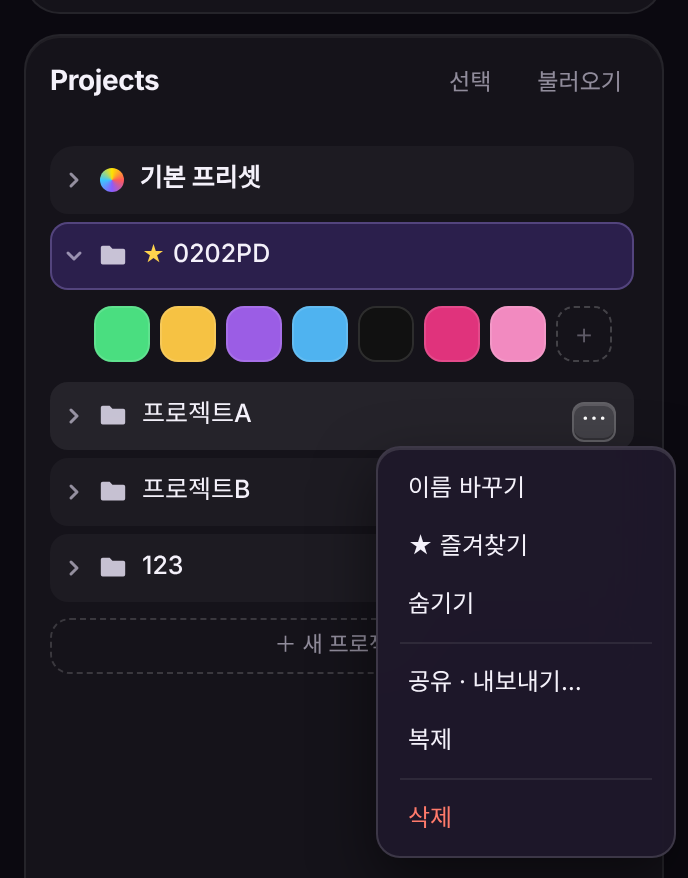
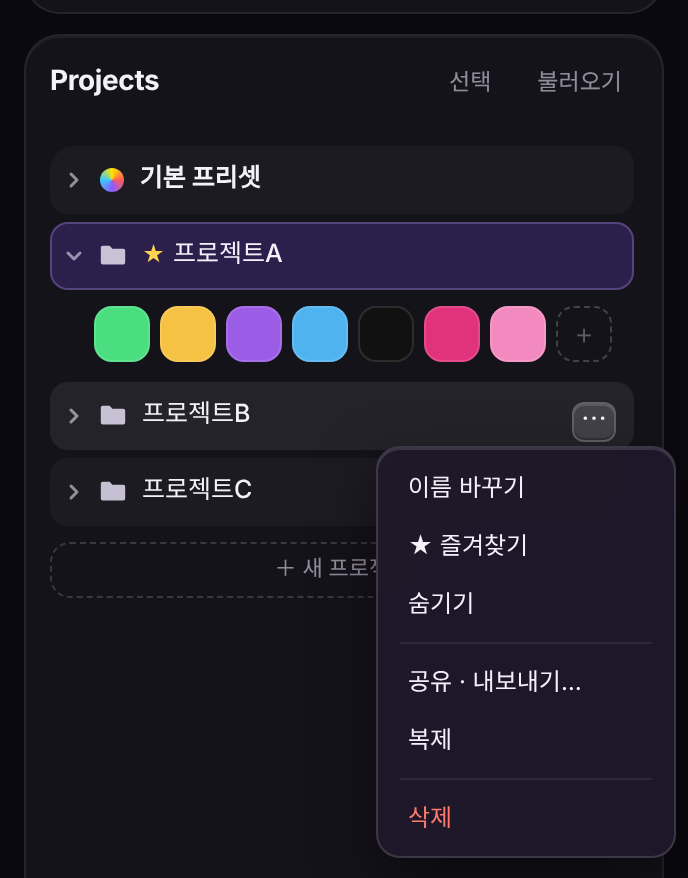
소개 페이지: 사용 방법 섹션, 기능 4 예시를 프로젝트 A·B·C로
Claude-Session: https://claude.ai/code/session_01EN3DvmfasgiLr1rD7UWmUP

diff --git a/index.html b/index.html
@@ -61,6 +61,9 @@
   .feat p { color: var(--sub); font-size: 14.5px; }
   .list { display: grid; grid-template-columns: repeat(3, 1fr); gap: 14px; }
   .list .feat h3 { font-size: 15.5px; }
+  .list ol.how { margin: 8px 0 0 18px; color: var(--sub); font-size: 13.5px; display: grid; gap: 5px; }
+  .list ol.how b { color: var(--text); font-weight: 700; }
+  .list ol.how li::before { content: none; }
   .list ul { list-style: none; color: var(--sub); font-size: 13.5px; display: grid; gap: 5px; margin-top: 6px; }
   .list li::before { content: "·"; color: var(--p2); font-weight: 900; margin-right: 6px; }
   .steps { display: grid; grid-template-columns: 1fr 1fr; gap: 14px; }
@@ -88,7 +91,7 @@
 <div class="wrap">
   <nav>
     <div class="brand"><span class="dot"></span>0202<b>Swatch</b></div>
-    <div class="links"><a href="#features">기능</a><a href="#install">설치</a><a href="#help">문제 해결</a></div>
+    <div class="links"><a href="#features">기능</a><a href="#howto">사용 방법</a><a href="#install">설치</a><a href="#help">문제 해결</a></div>
   </nav>
 
   <div class="hero">
@@ -124,23 +127,26 @@
       <div class="feat"><img class="shot fit" src="img/f1.png" alt="이미지에서 뽑은 색 화면" loading="lazy"><div class="n">기능 1</div><h3>이미지·화면에서 색 조합 뽑기</h3><p>화면 영역을 캡처하거나 이미지를 넣으면 추천 조합 5색과 많이 쓰인 색 8개를 비율과 함께 뽑아줘요. 바로 프로젝트에 저장할 수 있어요.</p></div>
       <div class="feat"><img class="shot" style="object-position:center 45%" src="img/f2.png" alt="색 뽑으면 복사됨 표시가 뜨는 위젯" loading="lazy"><div class="n">기능 2</div><h3>어디서든 색 수집, 자동 복사</h3><p>위젯을 누르거나 단축키(⌥⌘C / Ctrl+Alt+C)를 누르면 확대경 스포이드가 떠요. 찍는 순간 HEX가 복사돼요.</p></div>
       <div class="feat"><img class="shot" src="img/f3.png" alt="기본 프리셋 폴더 화면" loading="lazy"><div class="n">기능 3</div><h3>0202 기본 컬러 조합</h3><p>예능 자막 기본, 정보·뉴스 그래픽, 브이로그 감성, 파스텔, 시네마틱·다큐, 레트로·Y2K, 무채색 프리셋이 들어 있어요.</p></div>
-      <div class="feat"><img class="shot" style="object-position:center 78%" src="img/f4.png" alt="프로젝트 폴더와 공유 메뉴" loading="lazy"><div class="n">기능 4</div><h3>프로젝트별 관리 · 팀 공유</h3><p>클라이언트·채널별 폴더에 색을 모아두고, 공유 코드나 파일로 함께 작업하는 사람에게 넘겨줄 수 있어요. 폴더 이름까지 그대로 가요.</p></div>
+      <div class="feat"><img class="shot" style="object-position:center 42%" src="img/f4.png" alt="프로젝트 폴더와 공유 메뉴" loading="lazy"><div class="n">기능 4</div><h3>프로젝트별 관리 · 팀 공유</h3><p>클라이언트·채널별 폴더에 색을 모아두고, 공유 코드나 파일로 함께 작업하는 사람에게 넘겨줄 수 있어요. 폴더 이름까지 그대로 가요.</p></div>
     </div>
   </section>
 
-  <section>
-    <h2>전체 기능</h2>
-    <p class="sub2">자주 쓰는 순서대로 모았어요.</p>
+  <section id="howto">
+    <h2>사용 방법</h2>
+    <p class="sub2">자주 쓰는 것부터 순서대로 모았어요.</p>
     <div class="list">
-      <div class="feat"><h3>🎯 색 뽑기</h3><ul><li>확대경 스포이드, 클릭하면 HEX 복사</li><li>단축키 직접 바꾸기</li><li>위젯 위에 '복사됨' 표시</li><li>메뉴 막대·작업 표시줄 아이콘</li></ul></div>
-      <div class="feat"><h3>🎨 현재 색 다듬기</h3><ul><li>HEX 직접 입력 (한글 자판도 OK)</li><li>R/G/B 슬라이더로 미세 조정</li><li>만든 색은 최근 색에 자동 저장</li></ul></div>
-      <div class="feat"><h3>🕘 최근 색</h3><ul><li>최근 50개까지 자동 보관</li><li>넘으면 오래된 색부터 정리</li><li>끌어서 프로젝트에 바로 저장</li></ul></div>
-      <div class="feat"><h3>📁 프로젝트 폴더</h3><ul><li>포토샵 스와치처럼 접고 펼치는 폴더</li><li>즐겨찾기·숨기기·복제·이름 바꾸기</li><li>폴더·색 순서 드래그로 변경</li></ul></div>
-      <div class="feat"><h3>✋ 색 정리</h3><ul><li>클릭 복사 · ⌥(Alt) 드래그 복제</li><li>우클릭·휴지통으로 삭제</li><li>여러 개 선택해서 한 번에 이동·삭제</li></ul></div>
-      <div class="feat"><h3>🔁 공유 · 불러오기</h3><ul><li>공유 코드 (카톡·슬랙에 붙여넣기)</li><li>.0202swatch 파일</li><li><b>포토샵·일러 스와치(.ase) 가져오기·내보내기</b></li></ul></div>
-      <div class="feat"><h3>🌐 언어</h3><ul><li>한국어 · English · 日本語</li></ul></div>
-      <div class="feat"><h3>⚙ 편하게</h3><ul><li>로그인할 때 자동 실행</li><li>새 버전 자동 다운로드, ↻로 적용</li><li>오류 문구 누르면 진단 정보 복사</li></ul></div>
-      <div class="feat"><h3>🎬 프리미어 패널과 연동</h3><ul><li>프리미어용 0202Swatch 패널과 같은 색 데이터를 써요</li></ul></div>
+      <div class="feat"><h3>🎯 색 뽑기</h3><ol class="how"><li>화면의 동그란 위젯을 누르거나 단축키 <b>⌥⌘C</b>(윈도우 <b>Ctrl+Alt+C</b>)</li><li>확대경이 뜨면 원하는 곳을 클릭</li><li>HEX 값이 바로 복사돼요 · 취소는 Esc</li></ol></div>
+      <div class="feat"><h3>🖼 화면 캡처·이미지로 색 조합 뽑기</h3><ol class="how"><li>팔레트에서 <b>화면 영역 캡처</b> → 원하는 영역을 드래그</li><li>이미지 파일은 <b>이미지에서 색 추출</b> 또는 팔레트에 붙여넣기·끌어놓기</li><li>추천 조합을 <b>프로젝트에 추가</b>하거나 <b>새 프로젝트로 저장</b></li></ol></div>
+      <div class="feat"><h3>✋ 드래그앤드롭으로 색 저장</h3><ol class="how"><li>최근 색을 프로젝트 폴더(이름이나 펼친 안쪽)로 끌어놓기</li><li>폴더 안에서 끌면 순서 변경</li><li><b>⌥(Alt)</b>를 누른 채 끌면 복제</li></ol></div>
+      <div class="feat"><h3>➕ 지금 색 바로 넣기</h3><ol class="how"><li>폴더 맨 끝 점선 <b>＋</b>를 누르면 현재 색이 맨 앞에 추가</li><li>＋를 우클릭하면 색 고르기 창</li></ol></div>
+      <div class="feat"><h3>🎨 색 미세 조정</h3><ol class="how"><li>동그란 버튼 아래 HEX 칸에 직접 입력 (한글 자판도 OK)</li><li>R/G/B 슬라이더로 조정</li><li>만든 색은 최근 색에 자동 저장</li></ol></div>
+      <div class="feat"><h3>📁 프로젝트 만들고 정리하기</h3><ol class="how"><li><b>＋ 새 프로젝트</b>를 누르면 폴더가 생기고 바로 이름 입력</li><li>폴더를 끌어서 순서 변경, 클릭하면 접기·펼치기</li><li>이름 옆 <b>⋯</b>: 이름 바꾸기 · 즐겨찾기 · 숨기기 · 복제 · 삭제</li></ol></div>
+      <div class="feat"><h3>🗑 색 지우기</h3><ol class="how"><li>색을 우클릭 → <b>삭제</b></li><li>색을 끌면 아래에 뜨는 휴지통에 놓기</li><li><b>선택</b>을 누르고 여러 개 골라 한 번에 삭제·이동</li></ol></div>
+      <div class="feat"><h3>🔁 팀원과 공유하기</h3><ol class="how"><li>프로젝트 <b>⋯ → 공유 · 내보내기</b> → 공유 코드 복사</li><li>카톡·슬랙으로 코드 전달</li><li>받는 사람은 <b>불러오기 → 코드 붙여넣기</b> (폴더 이름까지 그대로)</li></ol></div>
+      <div class="feat"><h3>🅿 포토샵 스와치 가져오기·보내기</h3><ol class="how"><li><b>불러오기 → 파일 열기</b>에서 포토샵·일러 .ase 파일 선택</li><li>프로젝트 <b>⋯ → 공유 · 내보내기 → ASE로 저장</b></li><li>저장한 .ase는 포토샵·일러·AE 스와치 패널에서 불러오기</li></ol></div>
+      <div class="feat"><h3>🌐 언어 바꾸기</h3><ol class="how"><li>팔레트 제목 옆 🌐 또는 위젯 우클릭 → <b>언어 / Language</b></li><li>한국어 · English · 日本語</li></ol></div>
+      <div class="feat"><h3>⌨ 단축키 바꾸기</h3><ol class="how"><li>위젯 우클릭 → <b>단축키 변경</b></li><li>원하는 키 조합을 누르고 저장</li><li><b>기본값</b>으로 되돌리기도 가능</li></ol></div>
+      <div class="feat"><h3>⚙ 위젯 다루기</h3><ol class="how"><li>위젯을 끌어서 위치 이동</li><li>마우스를 올리면 나오는 버튼으로 팔레트 열기</li><li>새 버전은 자동으로 받아지고, 팔레트 <b>↻</b>를 누르면 적용</li></ol></div>
     </div>
   </section>
 
